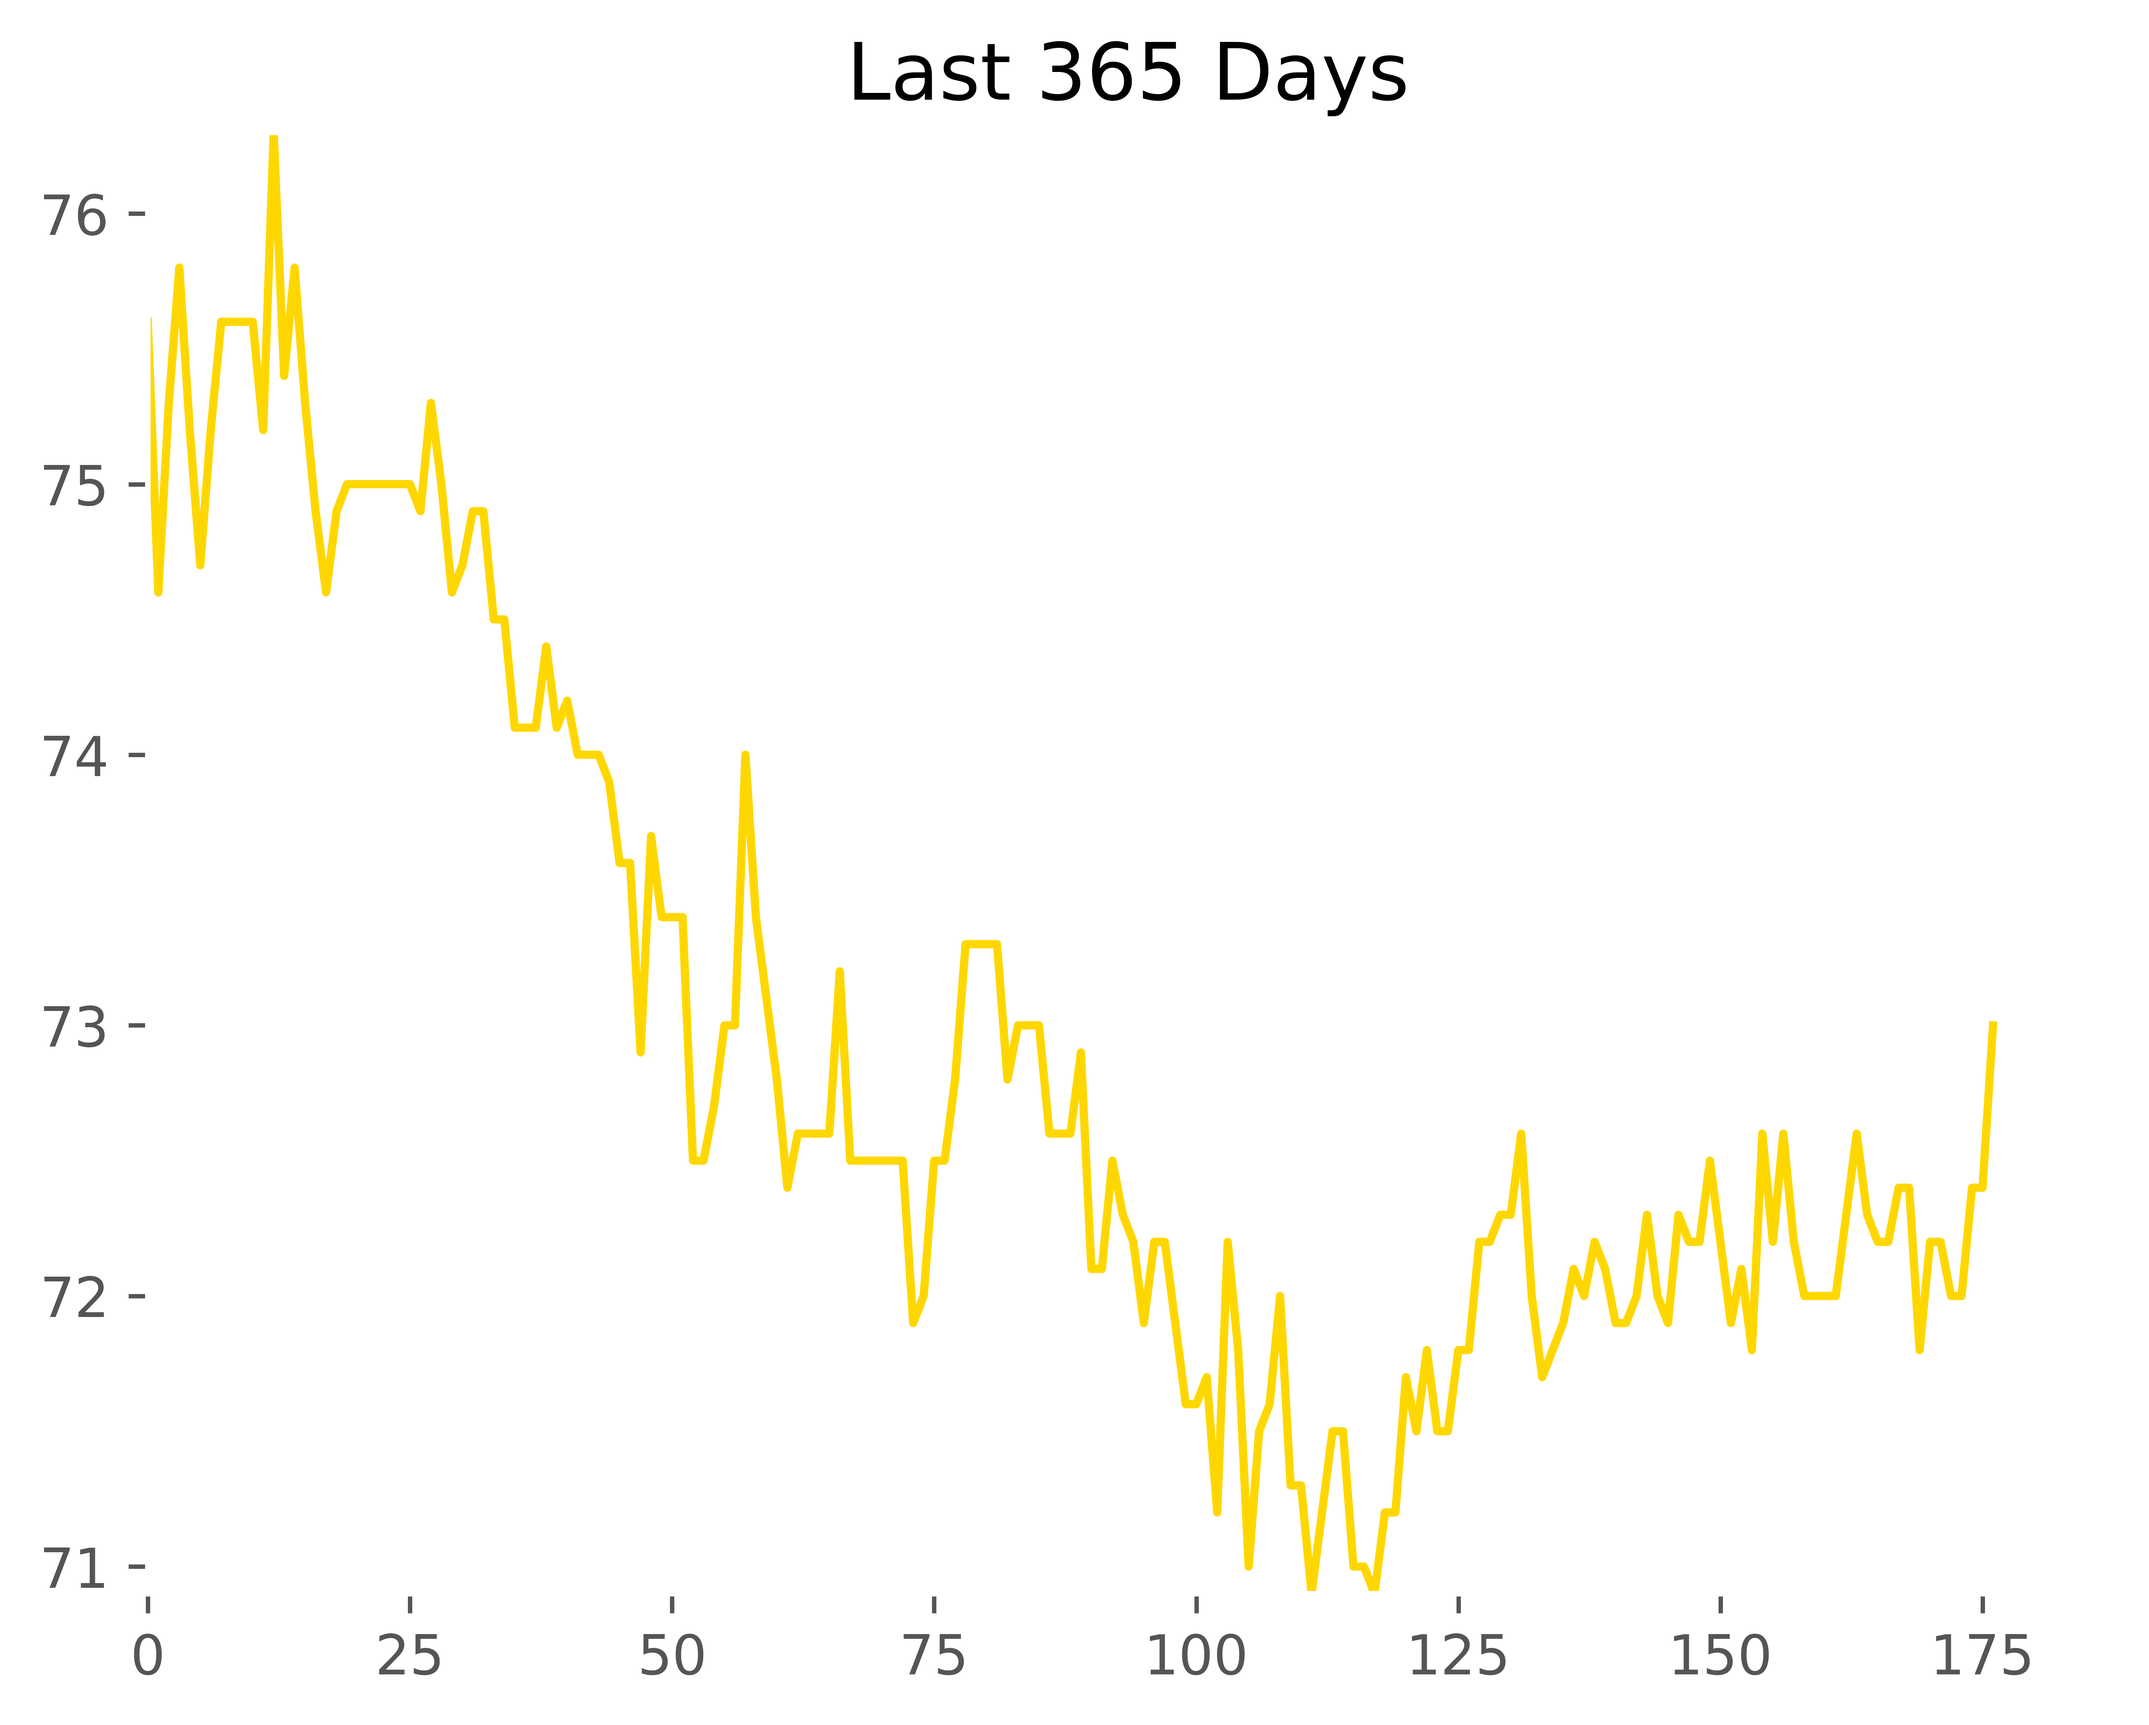
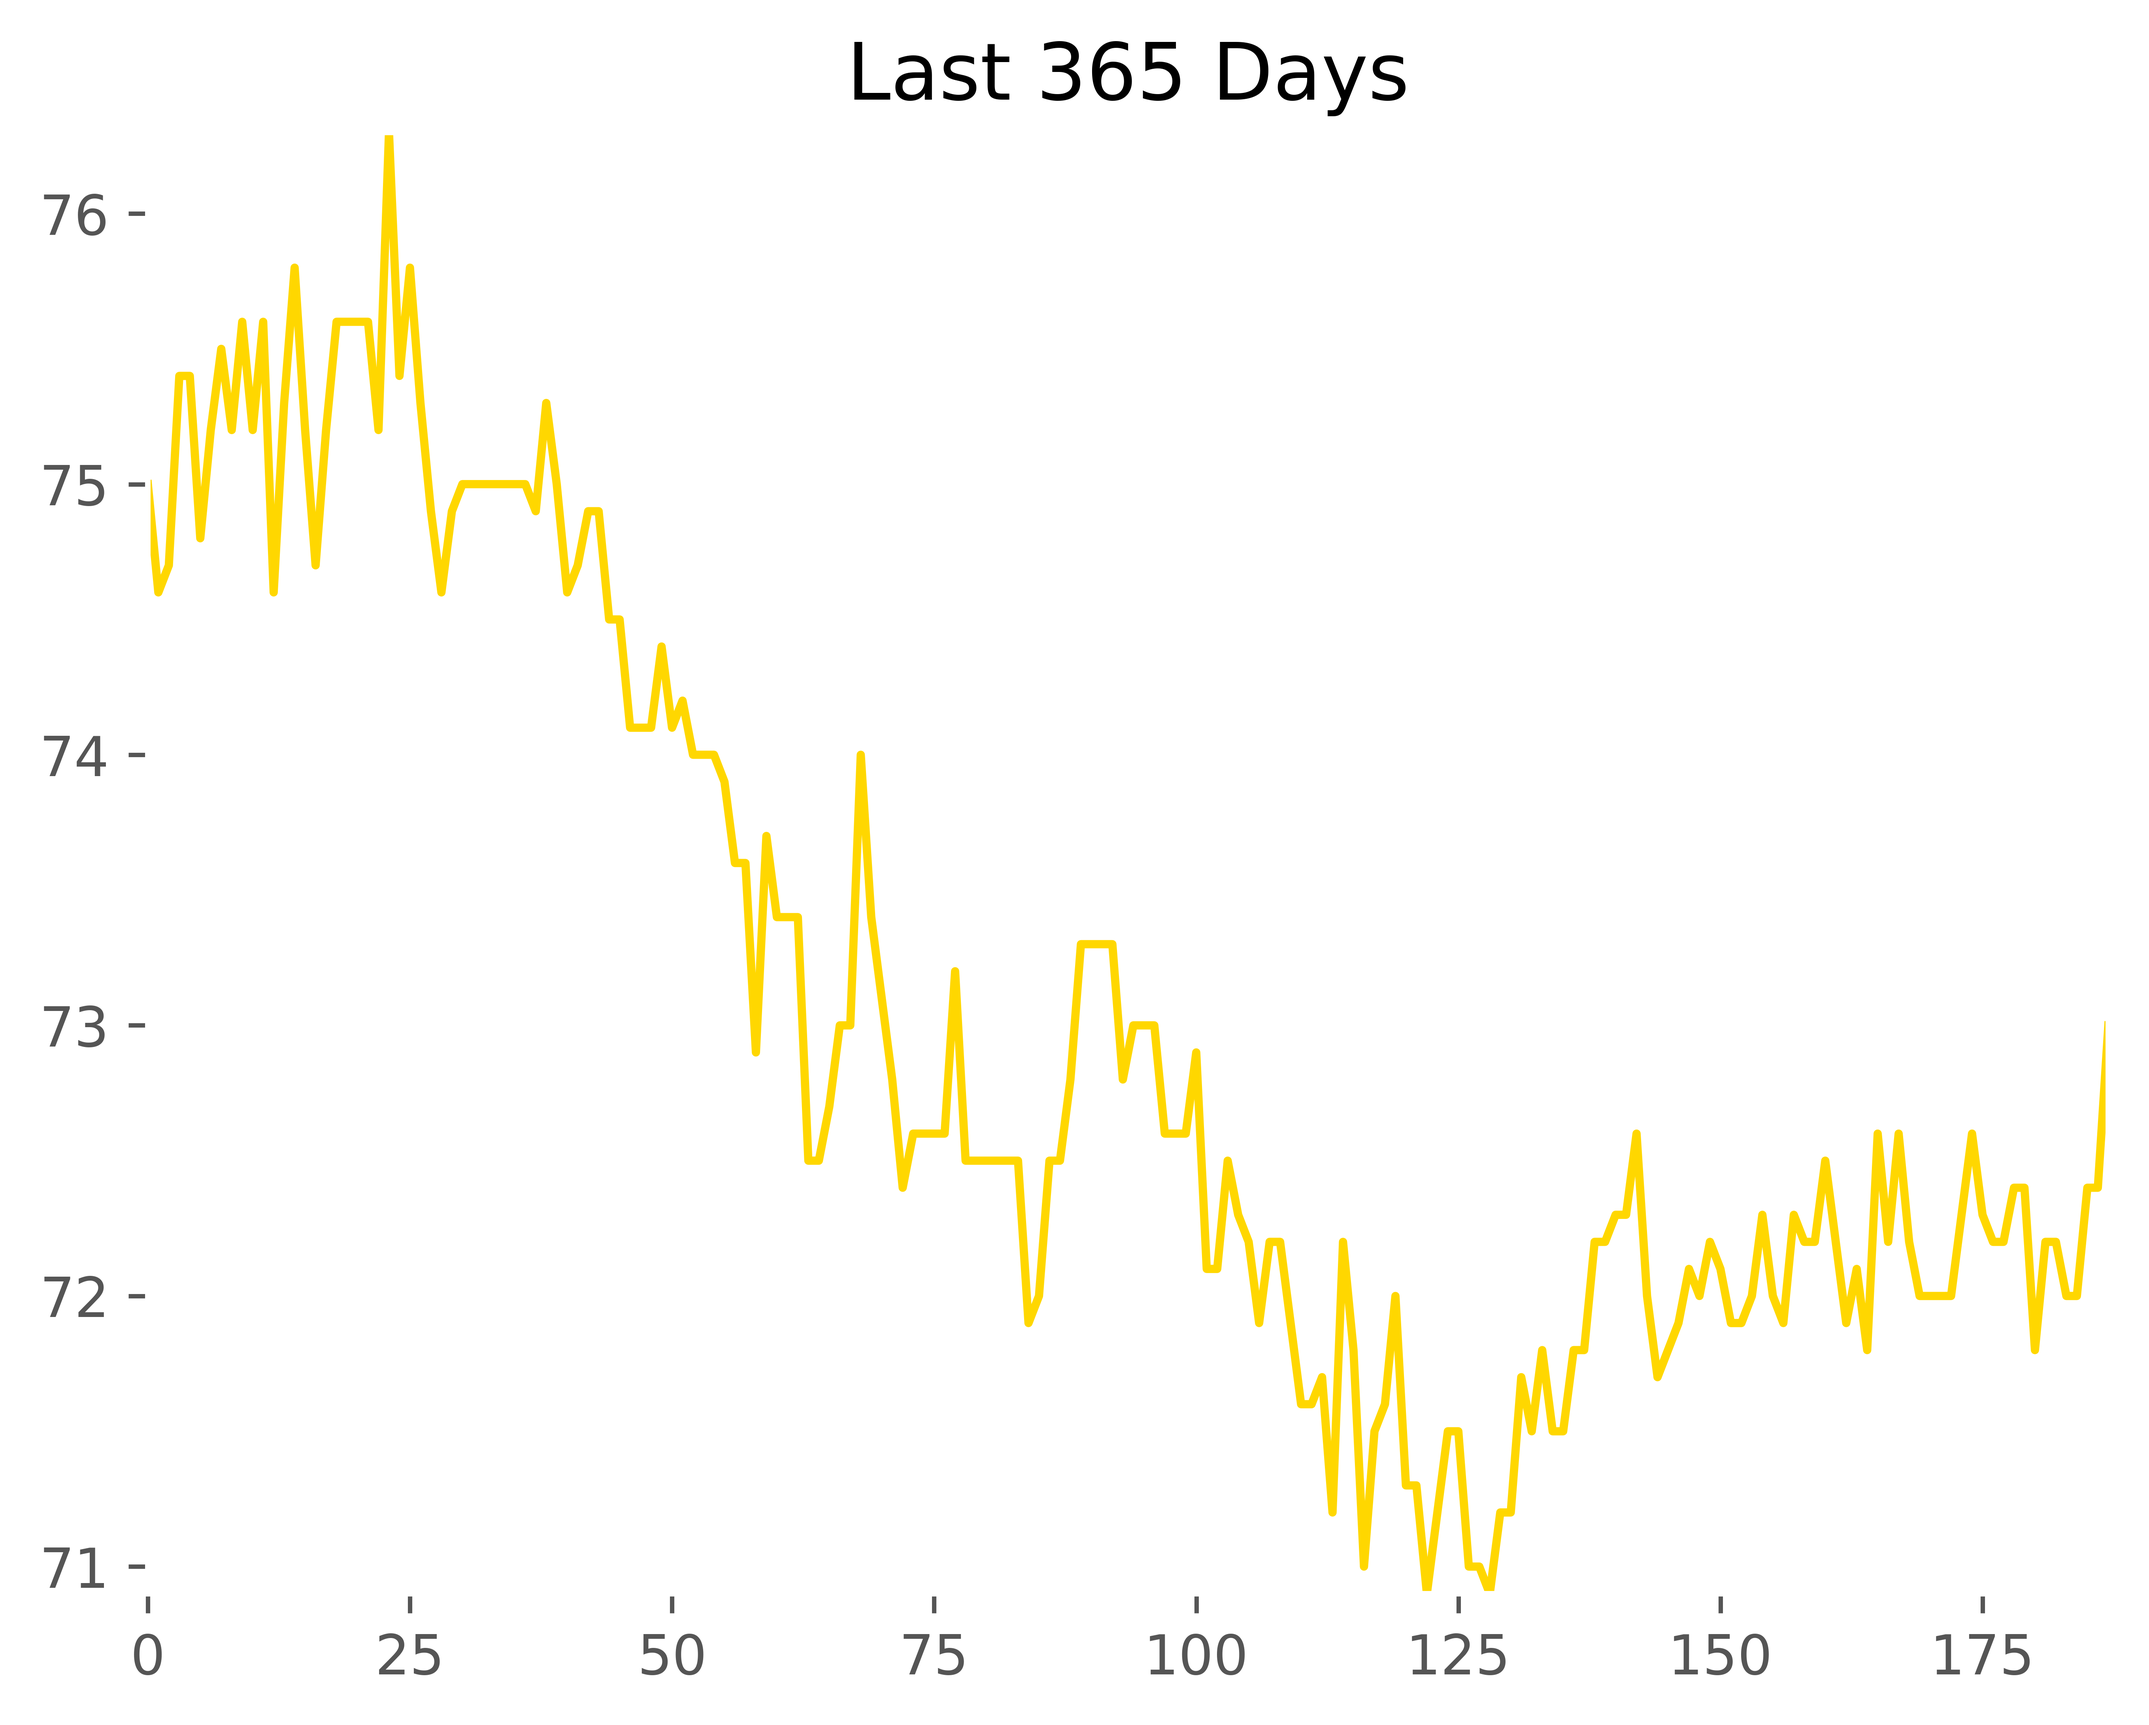
Sent with love from x4iiiis
Fixed the graphing gaffe

Changed region(s): [[0.0622, 0.0935, 0.9947, 0.9351]]

diff --git a/Plot7.py b/Plot7.py
@@ -10,7 +10,7 @@ weights = np.loadtxt('WeighIns.csv', unpack = True, delimiter = '\n')
 minX = [0, weights.size-7]
 
 #Plot 7 days
-plt.plot(weights[weights.size-365:weights.size], color='limegreen')
+plt.plot(weights[0:weights.size], color='limegreen')
 
 plt.title('Last 7 Days')
 plt.xlim([max(minX),weights.size-1])

diff --git a/Plot28.py b/Plot28.py
@@ -10,7 +10,7 @@ weights = np.loadtxt('WeighIns.csv', unpack = True, delimiter = '\n')
 minX = [0, weights.size-28]
 
 #Plot 28 days
-plt.plot(weights[weights.size-365:weights.size], color='magenta')
+plt.plot(weights[0:weights.size], color='magenta')
 
 plt.title('Last 28 Days')
 plt.xlim([max(minX),weights.size-1])

diff --git a/Plot365.py b/Plot365.py
@@ -10,7 +10,7 @@ weights = np.loadtxt('WeighIns.csv', unpack = True, delimiter = '\n')
 minX = [364, weights.size-1]
 
 #Plot 365 days
-plt.plot(weights[weights.size-365:weights.size], color='gold')
+plt.plot(weights[0:weights.size], color='gold')
 
 plt.title('Last 365 Days')
 plt.xlim([0,min(minX)])
